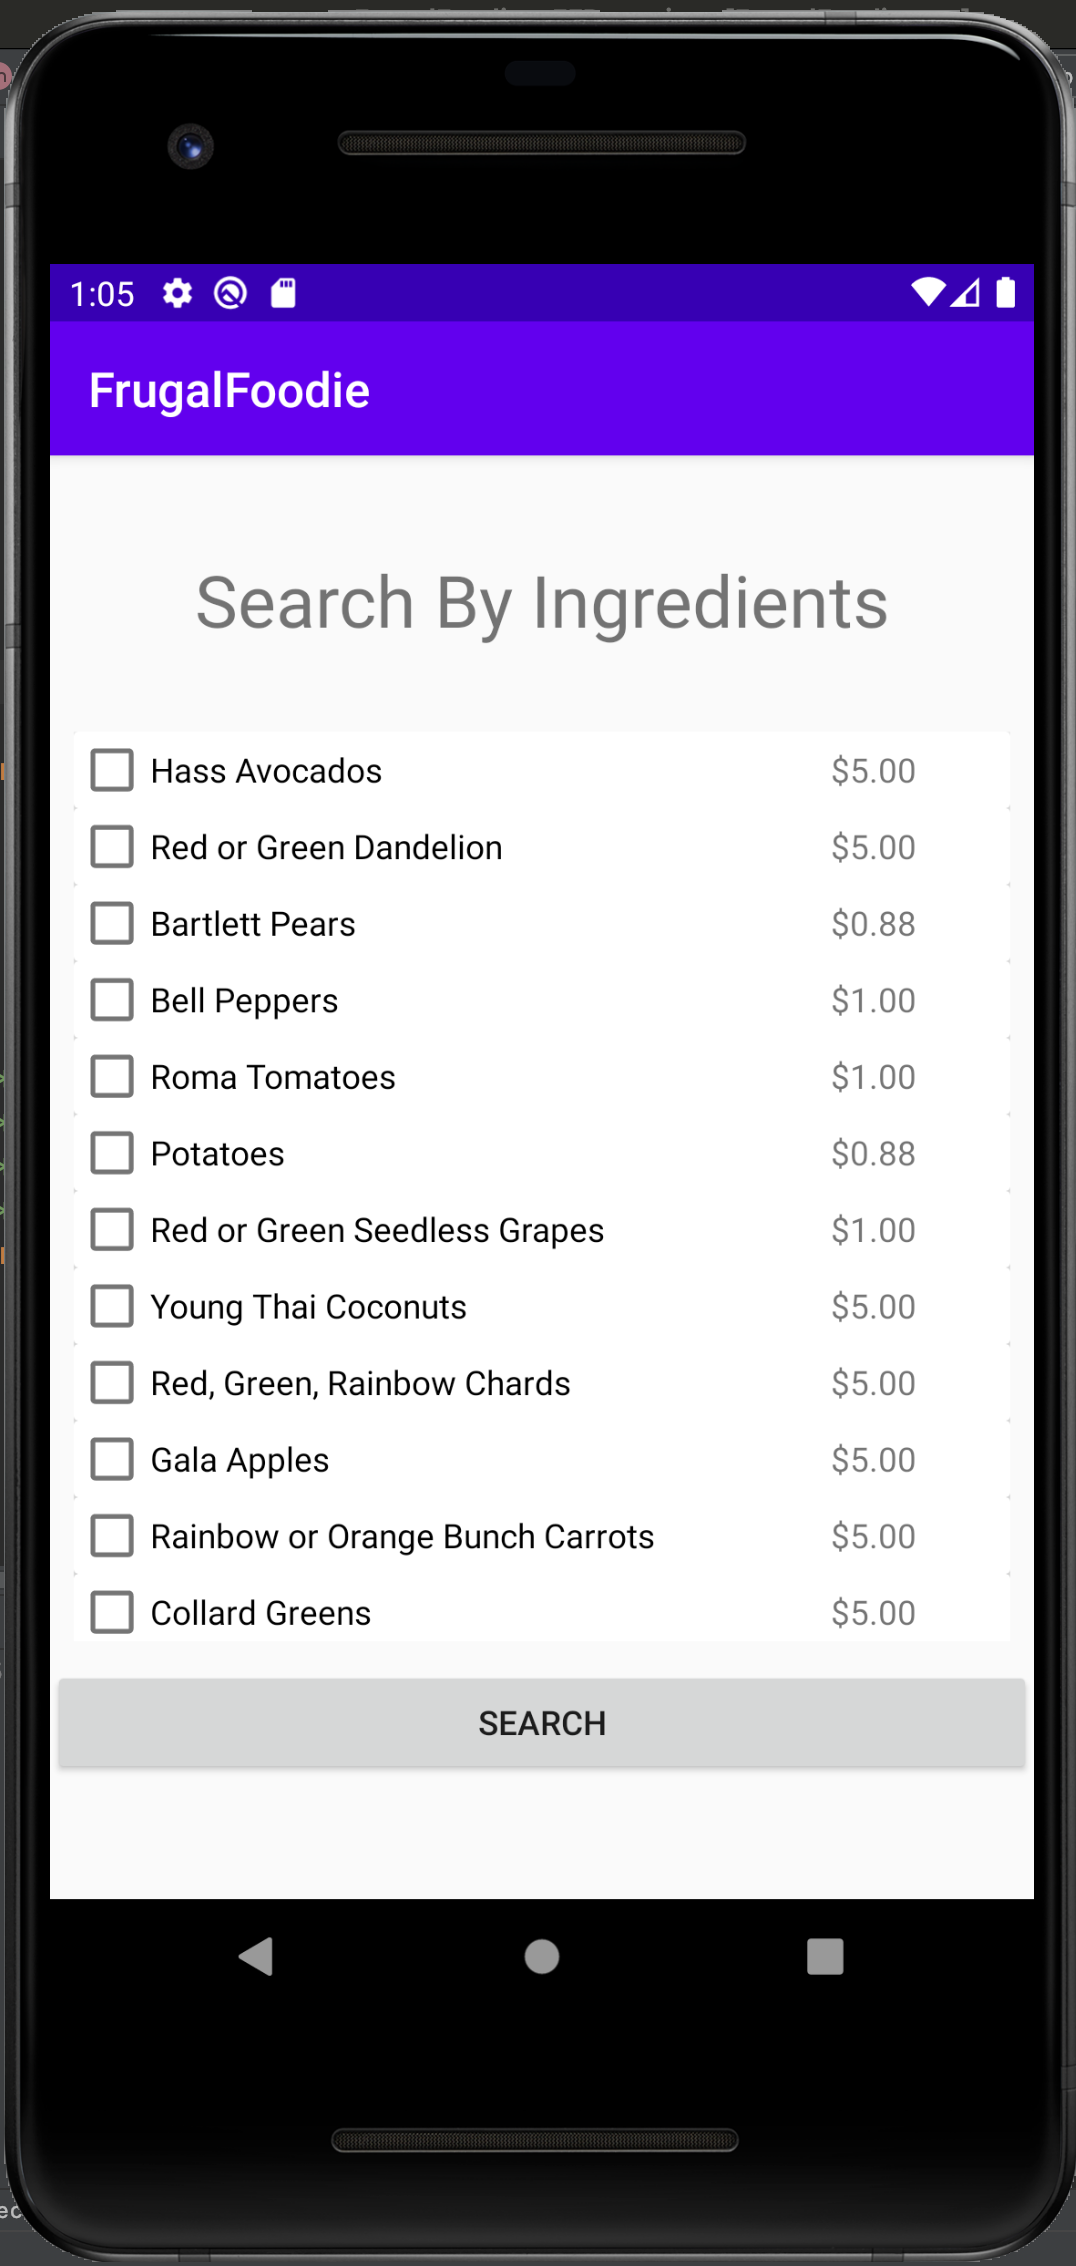
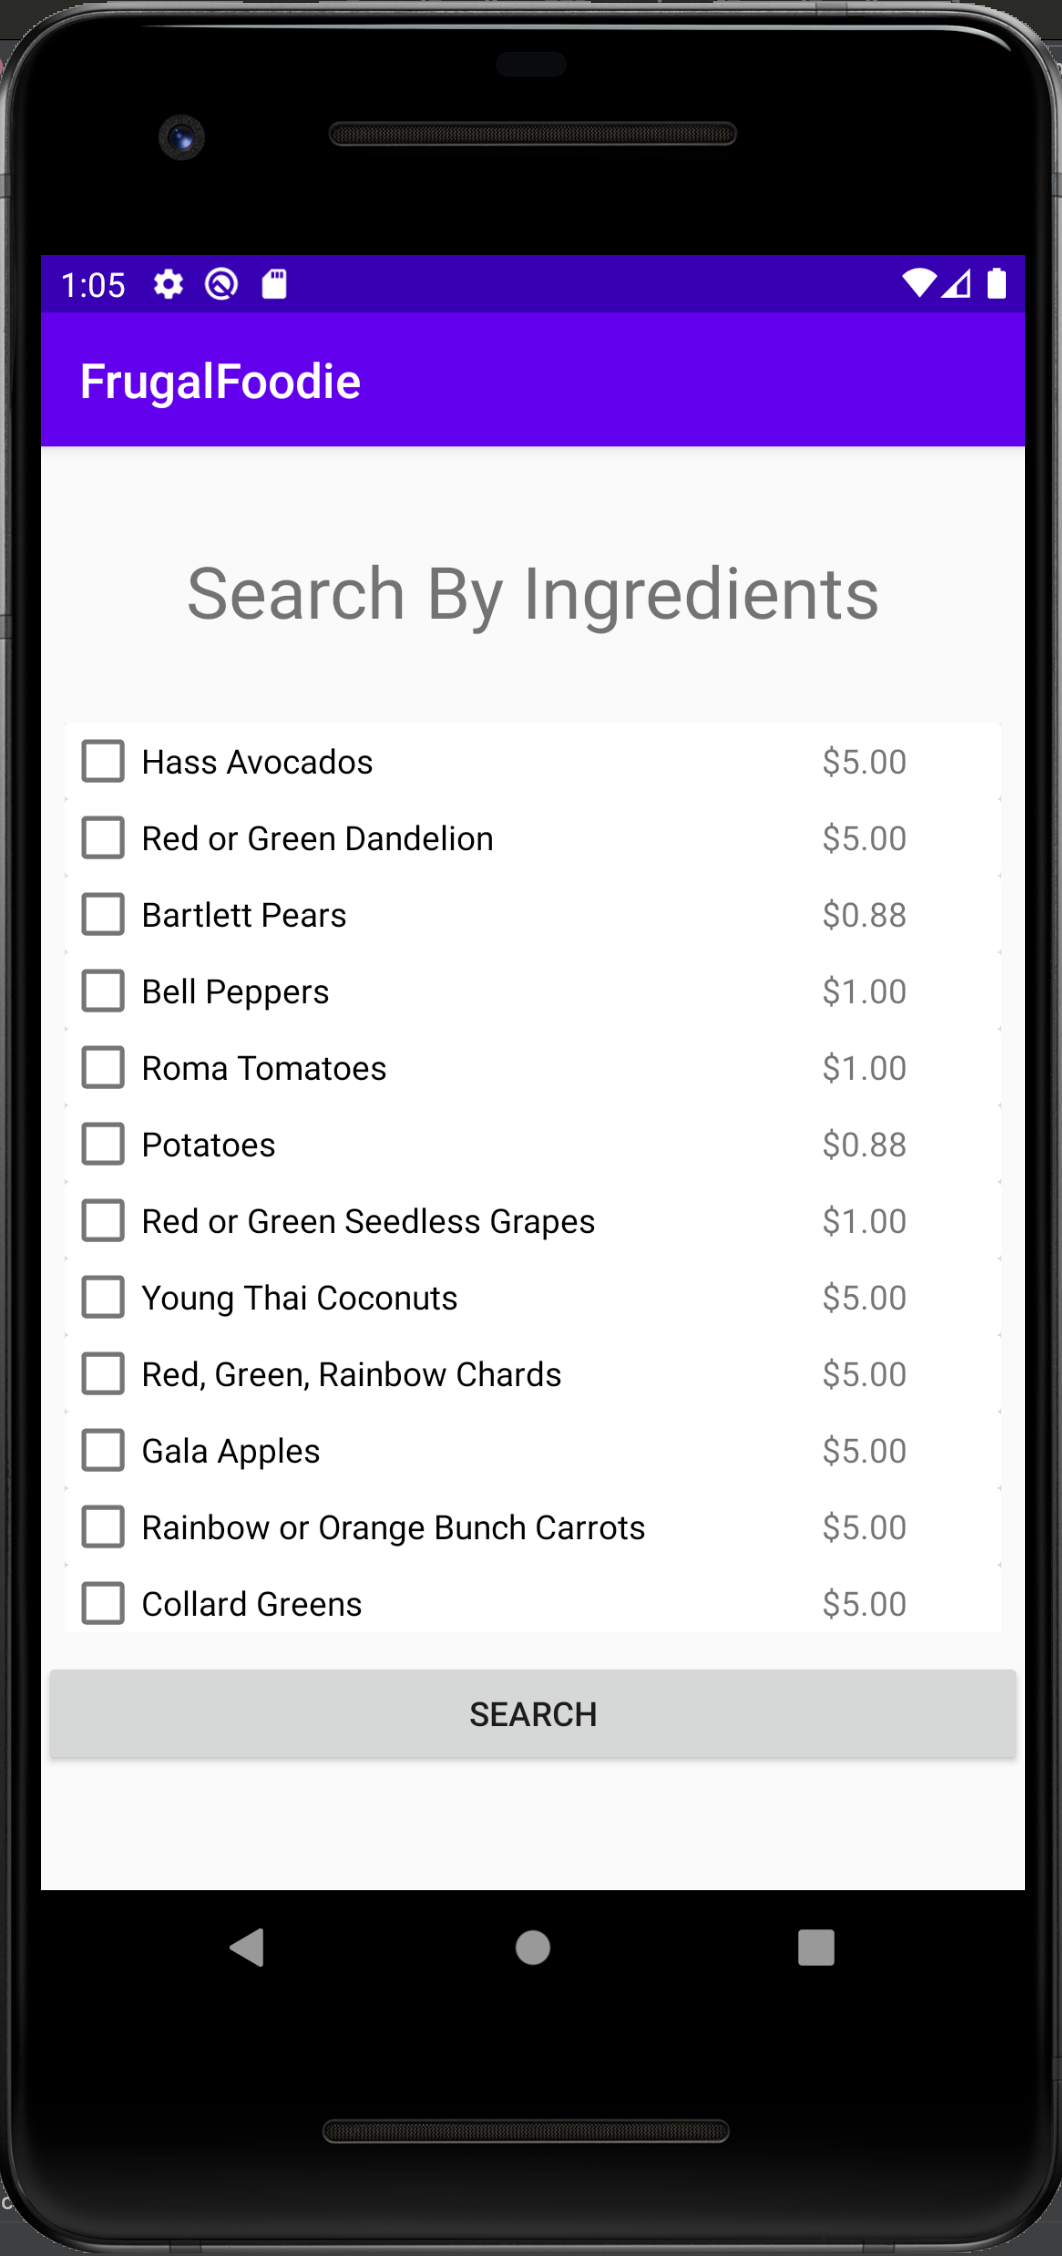
resizing images

diff --git a/README.md b/README.md
@@ -29,23 +29,23 @@ https://github.com/users/charliekid/projects/1
 
 #### Login
 A login screen is created so that each user can have their own profile to upload their own recipes.
-![Login-Screenshot](img/LoginScreen.png)
+![Login-Screenshot](img/LoginScreen.png =268x)
 
 #### Upload A recipe
 Users are able to upload their own recipes for other users to view.
-![Login-Upload](img/LoginAndUploadRecipe.gif)
+![Login-Upload](img/LoginAndUploadRecipe.gif =268x)
 
 #### Ingredient List
 This list of ingredients and prices comes from Fraizer Farms. A local grocery store in Oceanside, CA. This information is webscraped with Python and imported into the Android project.
-![Ingredient-List](img/IngredientList.png)
+![Ingredient-List](img/IngredientList.png =268x)
 
 #### Searching Recipes by Ingredients
 Here is how users will search for a recipe. They will select which ingredients they would like to buy and it will display a list of recipes to choose from.
-![Search-Recipes](img/SearchingByRecipesByIngr.gif)
+![Search-Recipes](img/SearchingByRecipesByIngr.gif =268x)
 
 #### Administrative Login
 An administrative login was created so that an admin can mange the recipes that are in the database.
-![Admin-Login](img/AdminLoginDeleteRecipe.gif)
+![Admin-Login](img/AdminLoginDeleteRecipe.gif =268x)
 
 
 ## Iteration 1 ()
